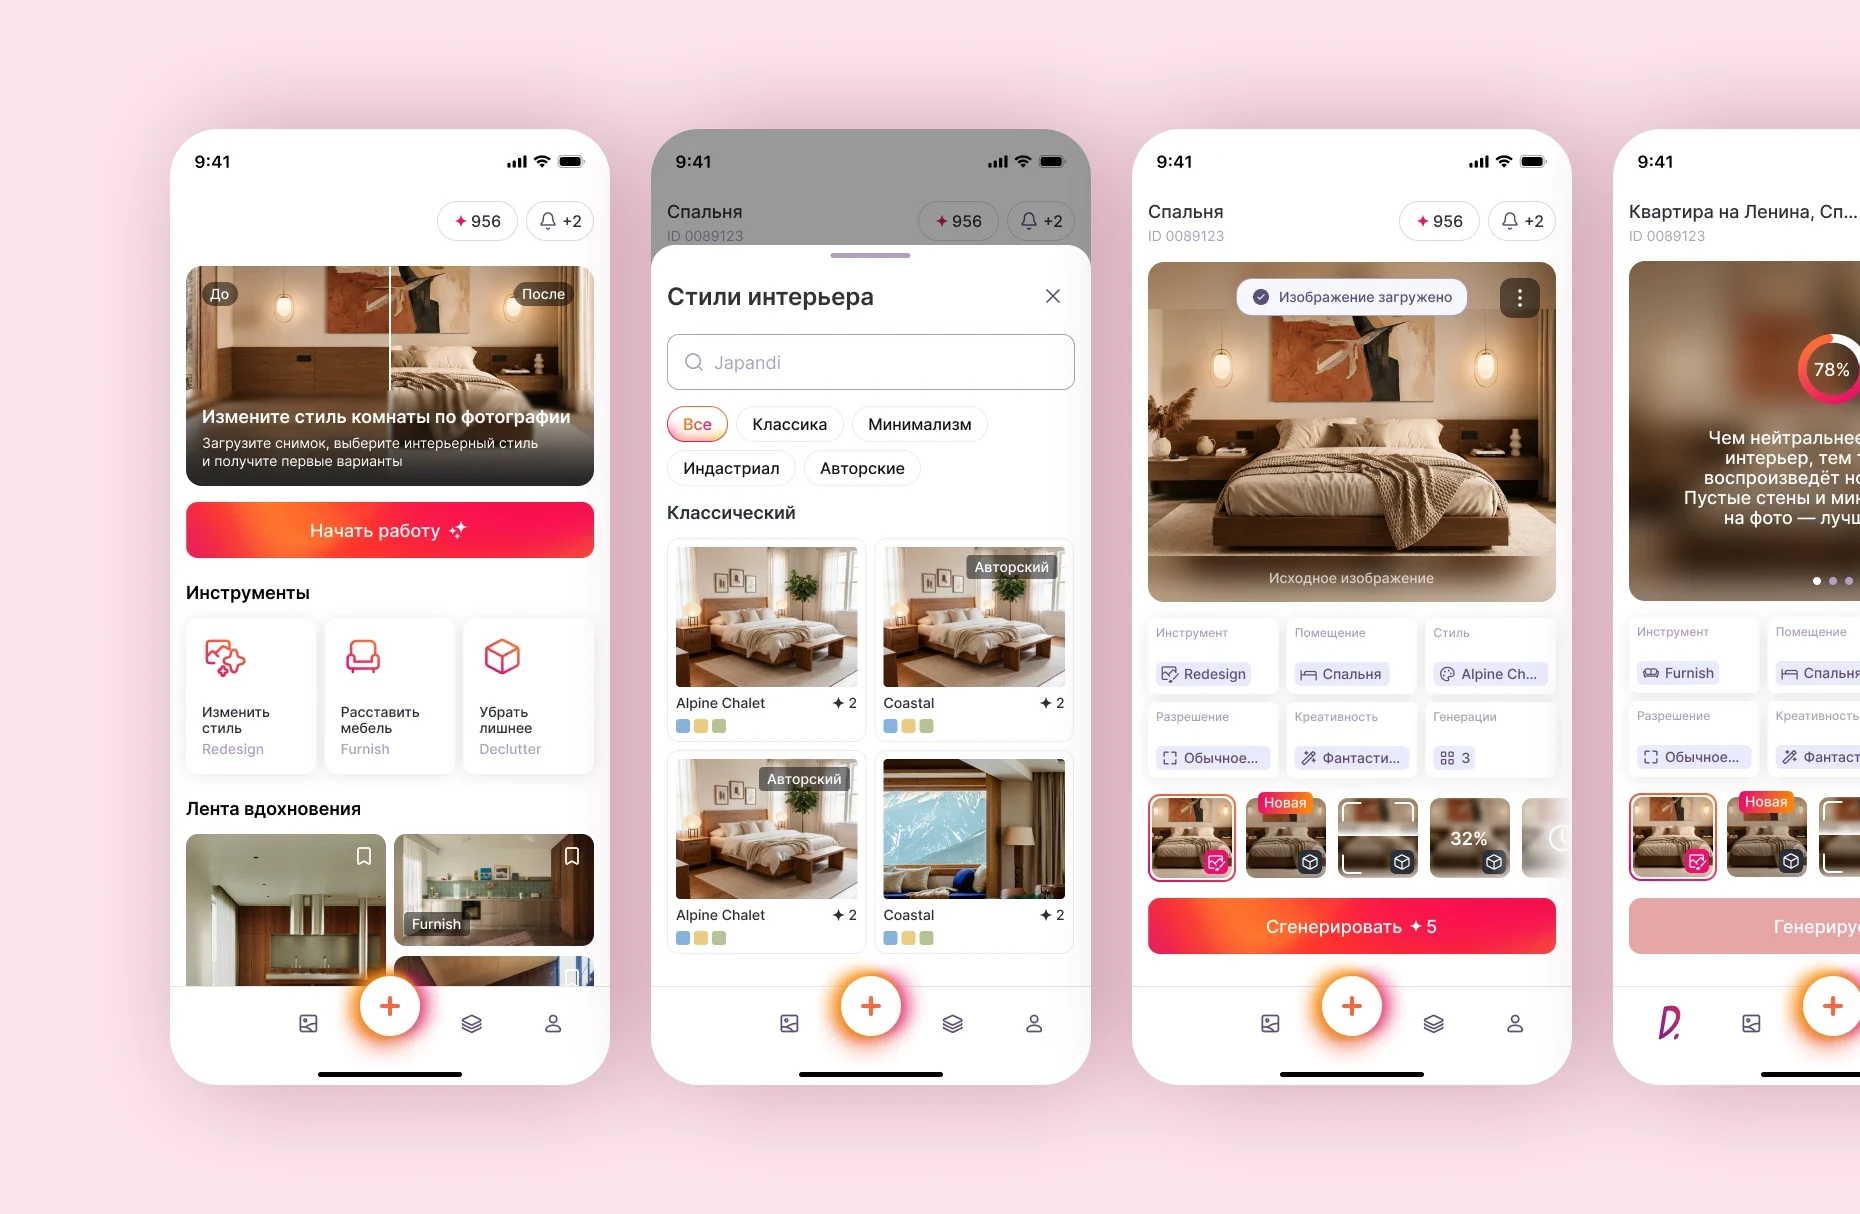
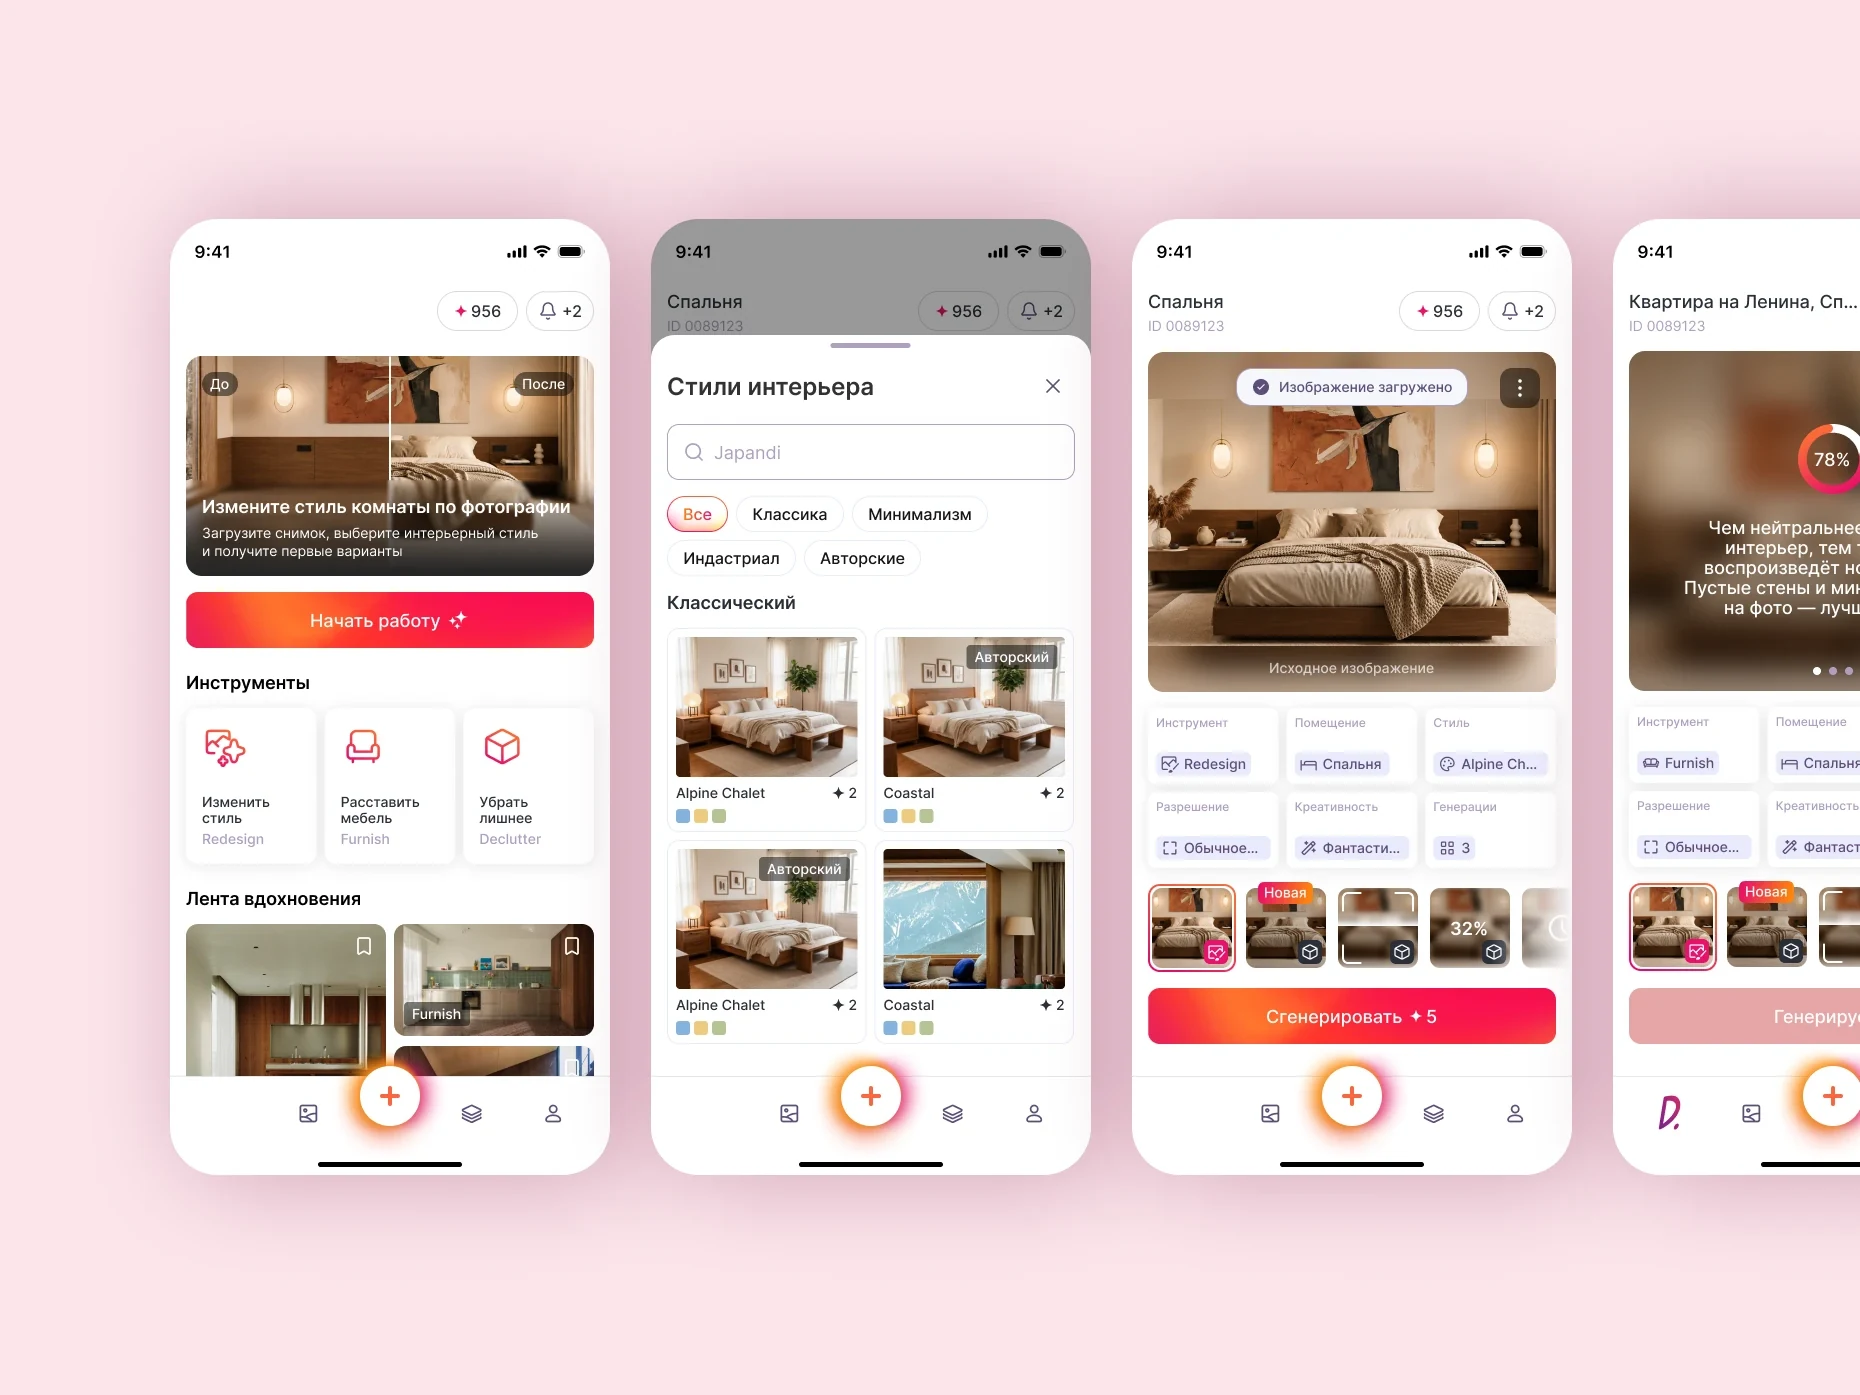
AI cover full width, single-line subtitles

diff --git a/index.html b/index.html
@@ -111,7 +111,7 @@ img{display:block;max-width:100%}
 .meta{display:grid;grid-template-columns:1fr;gap:10px;padding:20px 0 8px;opacity:0;transform:translateY(14px);transition:opacity .8s .25s var(--ease),transform .8s .25s var(--ease)}
 .card.in .meta{opacity:1;transform:none}
 .meta h3{font-weight:600;font-size:clamp(18px,1.5vw,21px);letter-spacing:-.01em;line-height:1.25}
-.meta small{display:block;color:var(--mute);font-size:15px;line-height:1.4;margin-top:6px}
+.meta small{display:block;color:var(--mute);font-size:15px;line-height:1.4;margin-top:6px;white-space:nowrap;overflow:hidden;text-overflow:ellipsis}
 .meta p{font-size:16px;line-height:1.55;max-width:36em}
 .meta .lnk{display:inline-flex;gap:6px;margin-top:14px;font-size:16px;text-decoration:underline;text-underline-offset:4px;text-decoration-thickness:1px;transition:color .2s}
 .meta .lnk i{font-style:normal;text-decoration:none;display:inline-block;transition:transform .35s var(--ease)}
@@ -222,13 +222,13 @@ footer a:hover{color:var(--ink)}
 
 <script>
 const P=[
- {id:'ai',sub:'Продукт под NDA<br>в работе',d:'Проектирую веб- и мобильную версию ИИ-платформы, которая по фото делает редизайн, меблировку и визуализацию: дашборд, сценарии генерации, библиотеку проектов.',note:'',f:'product',t:'AI-сервис для интерьера',cat:'Продукт · NDA',c:'#e3ddf3',cover:'img/cover-ai.webp',coverW:'img/cover-ai-w.jpg',label:'NDA',
+ {id:'ai',sub:'Продукт под NDA, в работе',d:'Проектирую веб- и мобильную версию ИИ-платформы, которая по фото делает редизайн, меблировку и визуализацию: дашборд, сценарии генерации, библиотеку проектов.',note:'',f:'product',t:'AI-сервис для интерьера',cat:'Продукт · NDA',c:'#e3ddf3',cover:'img/cover-ai.webp?v=2',coverW:'img/cover-ai-w.jpg',label:'NDA',
   tags:['Продукт','AI','Мобайл'],
   s:'ИИ-платформа: по фото делает редизайн, меблировку и визуализацию за минуты.',
   facts:[['Клиент','NDA'],['Роль','UX/UI-дизайн продукта'],['Платформы','Веб и мобайл'],['Статус','В работе']],
   text:['ИИ-платформа для интерьера: по фотографии создаёт или улучшает пространство — от ремонта и меблировки до готовой визуализации.','Проектирую веб- и мобильную версию: дашборд, сценарии редизайна, меблировки и расхламления, выбор параметров генерации, библиотеку проектов и уведомления. Экраны скрыты по NDA.'],
   gal:[{src:'img/interior.jpg'},{src:'img/ai-mobile.jpg'}]},
- {id:'forbes',sub:'Спецпроект для Forbes<br>Silver Mercury, 2026',d:'Спроектировала игровой раздел на сайте Forbes: квизы на эрудицию, логику и стратегию для десктопа и мобайла. Проект получил Silver Mercury в номинации «Лучший диджитал-проект».',note:'',f:'site',t:'Forbes Games',cat:'Спецпроект · Веб и мобайл',c:'#0d0b08',cover:'img/cover-forbes.jpg',coverW:'img/cover-forbes-w.jpg',
+ {id:'forbes',sub:'Спецпроект для Forbes, Silver Mercury, 2026',d:'Спроектировала игровой раздел на сайте Forbes: квизы на эрудицию, логику и стратегию для десктопа и мобайла. Проект получил Silver Mercury в номинации «Лучший диджитал-проект».',note:'',f:'site',t:'Forbes Games',cat:'Спецпроект · Веб и мобайл',c:'#0d0b08',cover:'img/cover-forbes.jpg',coverW:'img/cover-forbes-w.jpg',
   tags:['Веб','Мобайл','2026'],award:'Silver Mercury',
   s:'Игровой раздел на сайте Forbes. Silver Mercury в номинации «Лучший диджитал-проект».',
   facts:[['Клиент','Forbes Russia'],['Роль','UX/UI-дизайн'],['Платформы','Десктоп и мобайл'],['Награда','Silver Mercury 2026']],
@@ -248,14 +248,14 @@ const P=[
   facts:[['Клиент','Авиакомпания «Ямал»'],['Роль','UX/UI-дизайн'],['Объём','Сайт, ЛК, заказ'],['Тип','Веб-сервис']],
   text:['Сайт авиакомпании с личным кабинетом пассажира и сценарием оформления заказа.'],
   gal:[{src:'img/yamal.jpg'}]},
- {id:'ultra',sub:'Концепт сайта<br>производитель КИПиА',d:'Концепция сайта российского производителя расходомеров и уровнемеров: главная со сценой «внутрь прибора», каталог с умным фильтром и карточка прибора с запросом ТКП.',note:'',f:'concept',t:'ГК «Ультра»',cat:'Концепт · Сайт производителя',c:'#2a1f4d',cover:'img/cover-ultra.jpg',coverW:'img/cover-ultra-w.jpg',label:'Концепт',
+ {id:'ultra',sub:'Концепт сайта, производитель КИПиА',d:'Концепция сайта российского производителя расходомеров и уровнемеров: главная со сценой «внутрь прибора», каталог с умным фильтром и карточка прибора с запросом ТКП.',note:'',f:'concept',t:'ГК «Ультра»',cat:'Концепт · Сайт производителя',c:'#2a1f4d',cover:'img/cover-ultra.jpg',coverW:'img/cover-ultra-w.jpg',label:'Концепт',
   tags:['Концепт','Каталог','B2B'],
   s:'Концепция сайта российского производителя расходомеров и уровнемеров.',
   facts:[['Клиент','ГК «Ультра»'],['Роль','Концепция, UX/UI'],['Страницы','Главная, каталог, карточка'],['Год','2026']],
   text:['Задача — показать производителя КИПиА технологичной компанией с собственной метрологической базой и сделать каталог сложных приборов понятным.','Тёмная техническая эстетика, 3D-прибор на первом экране и сцена «внутрь прибора» при прокрутке. В каталоге — умный фильтр по среде, сигналу и исполнению, «подбор за 10 секунд» на главной и карточка прибора с ключевыми характеристиками и запросом ТКП.'],
   url:'https://alinagradinar99-afk.github.io/ultra-concept/',urlT:'Смотреть концепт',
   gal:[{src:'img/ultra-home.jpg'},{src:'img/ultra-catalog.jpg'},{src:'img/ultra-product.jpg'}]},
- {id:'buildeng',sub:'Концепт главной<br>B2B e-commerce',d:'Концепция главной для поставщика инженерного оборудования: поиск по названию, артикулу и бренду, каталог категорий с брендами и блок подбора инженерных решений.',note:'',f:'concept',t:'BuildEng',cat:'Концепт · B2B e-commerce',c:'#b9cad9',cover:'img/cover-buildeng.jpg?v=5',coverW:'img/cover-buildeng-w.jpg?v=5',label:'Концепт',
+ {id:'buildeng',sub:'Концепт главной, B2B e-commerce',d:'Концепция главной для поставщика инженерного оборудования: поиск по названию, артикулу и бренду, каталог категорий с брендами и блок подбора инженерных решений.',note:'',f:'concept',t:'BuildEng',cat:'Концепт · B2B e-commerce',c:'#b9cad9',cover:'img/cover-buildeng.jpg?v=5',coverW:'img/cover-buildeng-w.jpg?v=5',label:'Концепт',
   tags:['Концепт','E-com','B2B'],
   s:'Концепция главной для поставщика инженерного оборудования.',
   facts:[['Клиент','BuildEng'],['Роль','Концепция, UX/UI'],['Объём','Главная страница, десктоп'],['Год','2026']],
